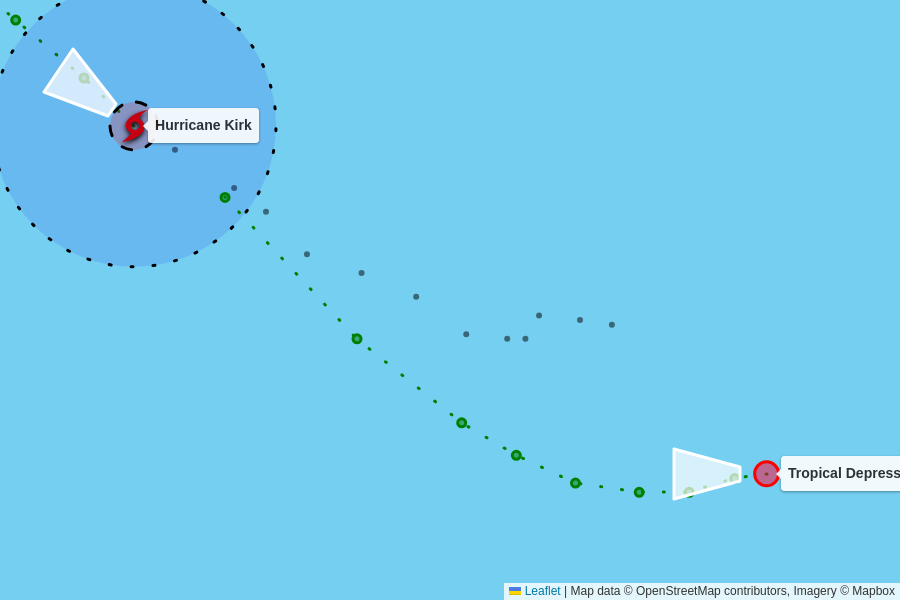
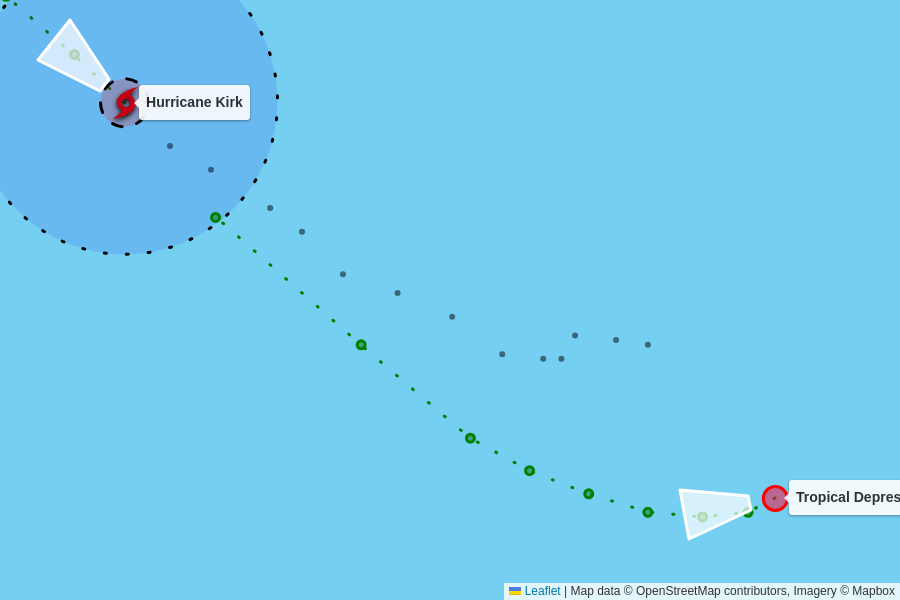
automatic update

diff --git a/docs/index.html b/docs/index.html
@@ -101,10 +101,10 @@
 
     <table>
       <tr>
-        <td colspan="6" class="storm category-1" >
+        <td colspan="6" class="storm category-0" >
           <h2>
-            Hurricane Kirk - Category 1
-            <p class="updated">last updated <span data-time>2024-10-02T15:00:00.000Z</span></p>
+            Tropical Depression Thirteen
+            <p class="updated">last updated <span data-time>2024-10-02T21:00:00.000Z</span></p>
           </h2>
         </td>
       </tr>
@@ -119,21 +119,21 @@
       </tr>
       <tr>
         <td class="spacer"></td>
-        <td>85 mph<br>+5 mph since last update</td>
-        <td>980 mb<br>-4 mb since last update</td>
+        <td>35 mph<br>0 mph since last update</td>
+        <td>1006 mb<br>0 mb since last update</td>
         <td>
-          12 mph to the northwest
+          7 mph to the west
           <br/>
-          <span style="display: inline-block; font-size: 1.5em; transform: rotate(305deg);">↑</span>
+          <span style="display: inline-block; font-size: 1.5em; transform: rotate(260deg);">↑</span>
         </td>
-        <td><a href="https://raw.githubusercontent.com/mgwalker/atlantic-hurricanes/main/data/csv/AL122024.csv">AL122024.csv</a></td>
-        <td><a href="https://www.nhc.noaa.gov/archive/2024/KIRK.shtml?">NHC advisories</a></td>
+        <td><a href="https://raw.githubusercontent.com/mgwalker/atlantic-hurricanes/main/data/csv/AL132024.csv">AL132024.csv</a></td>
+        <td><a href="https://www.nhc.noaa.gov/archive/2024/THIRTEEN.shtml?">NHC advisories</a></td>
       </tr>
-      <tr id="storm_AL122024" >
+      <tr id="storm_AL132024" >
         <td class="spacer">
         <td colspan="5">
           <figure>
-            <img src="AL122024.png">
+            <img src="AL132024.png">
             <figcaption>
               Map data &copy; <a href="https://www.openstreetmap.org/copyright">OpenStreetMap</a> contributors,
               Imagery &copy; <a href="https://www.mapbox.com/">Mapbox</a> |
@@ -145,10 +145,10 @@
       
 
       <tr>
-        <td colspan="6" class="storm category-0" >
+        <td colspan="6" class="storm category-1" >
           <h2>
-            Tropical Depression Thirteen
-            <p class="updated">last updated <span data-time>2024-10-02T15:00:00.000Z</span></p>
+            Hurricane Kirk - Category 1
+            <p class="updated">last updated <span data-time>2024-10-02T21:00:00.000Z</span></p>
           </h2>
         </td>
       </tr>
@@ -163,21 +163,21 @@
       </tr>
       <tr>
         <td class="spacer"></td>
-        <td>35 mph</td>
-        <td>1006 mb</td>
+        <td>90 mph<br>+5 mph since last update</td>
+        <td>975 mb<br>-5 mb since last update</td>
         <td>
-          7 mph to the west
+          12 mph to the northwest
           <br/>
-          <span style="display: inline-block; font-size: 1.5em; transform: rotate(270deg);">↑</span>
+          <span style="display: inline-block; font-size: 1.5em; transform: rotate(310deg);">↑</span>
         </td>
-        <td><a href="https://raw.githubusercontent.com/mgwalker/atlantic-hurricanes/main/data/csv/AL132024.csv">AL132024.csv</a></td>
-        <td><a href="https://www.nhc.noaa.gov/archive/2024/THIRTEEN.shtml?">NHC advisories</a></td>
+        <td><a href="https://raw.githubusercontent.com/mgwalker/atlantic-hurricanes/main/data/csv/AL122024.csv">AL122024.csv</a></td>
+        <td><a href="https://www.nhc.noaa.gov/archive/2024/KIRK.shtml?">NHC advisories</a></td>
       </tr>
-      <tr id="storm_AL132024" >
+      <tr id="storm_AL122024" >
         <td class="spacer">
         <td colspan="5">
           <figure>
-            <img src="AL132024.png">
+            <img src="AL122024.png">
             <figcaption>
               Map data &copy; <a href="https://www.openstreetmap.org/copyright">OpenStreetMap</a> contributors,
               Imagery &copy; <a href="https://www.mapbox.com/">Mapbox</a> |
